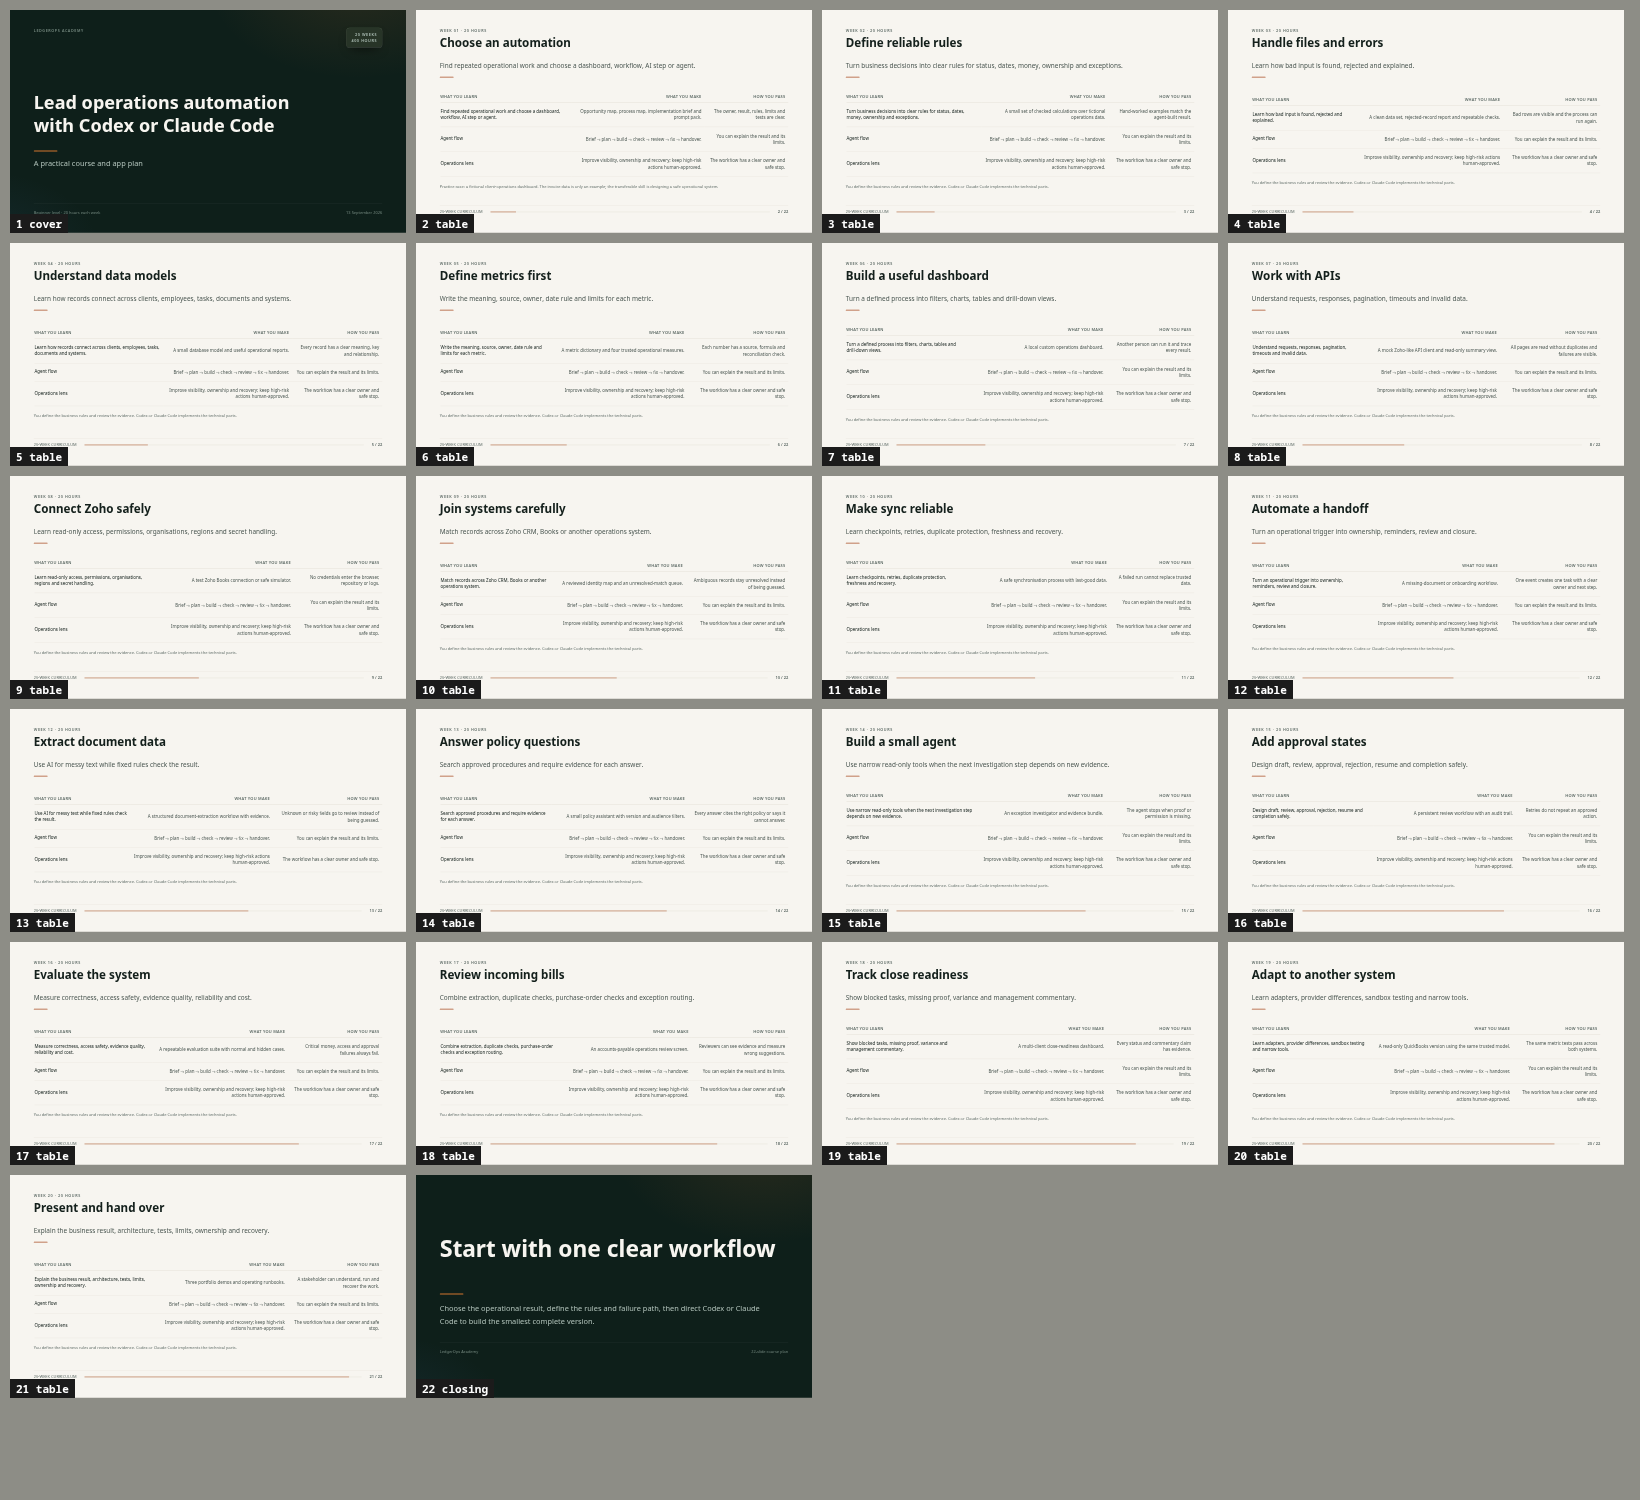
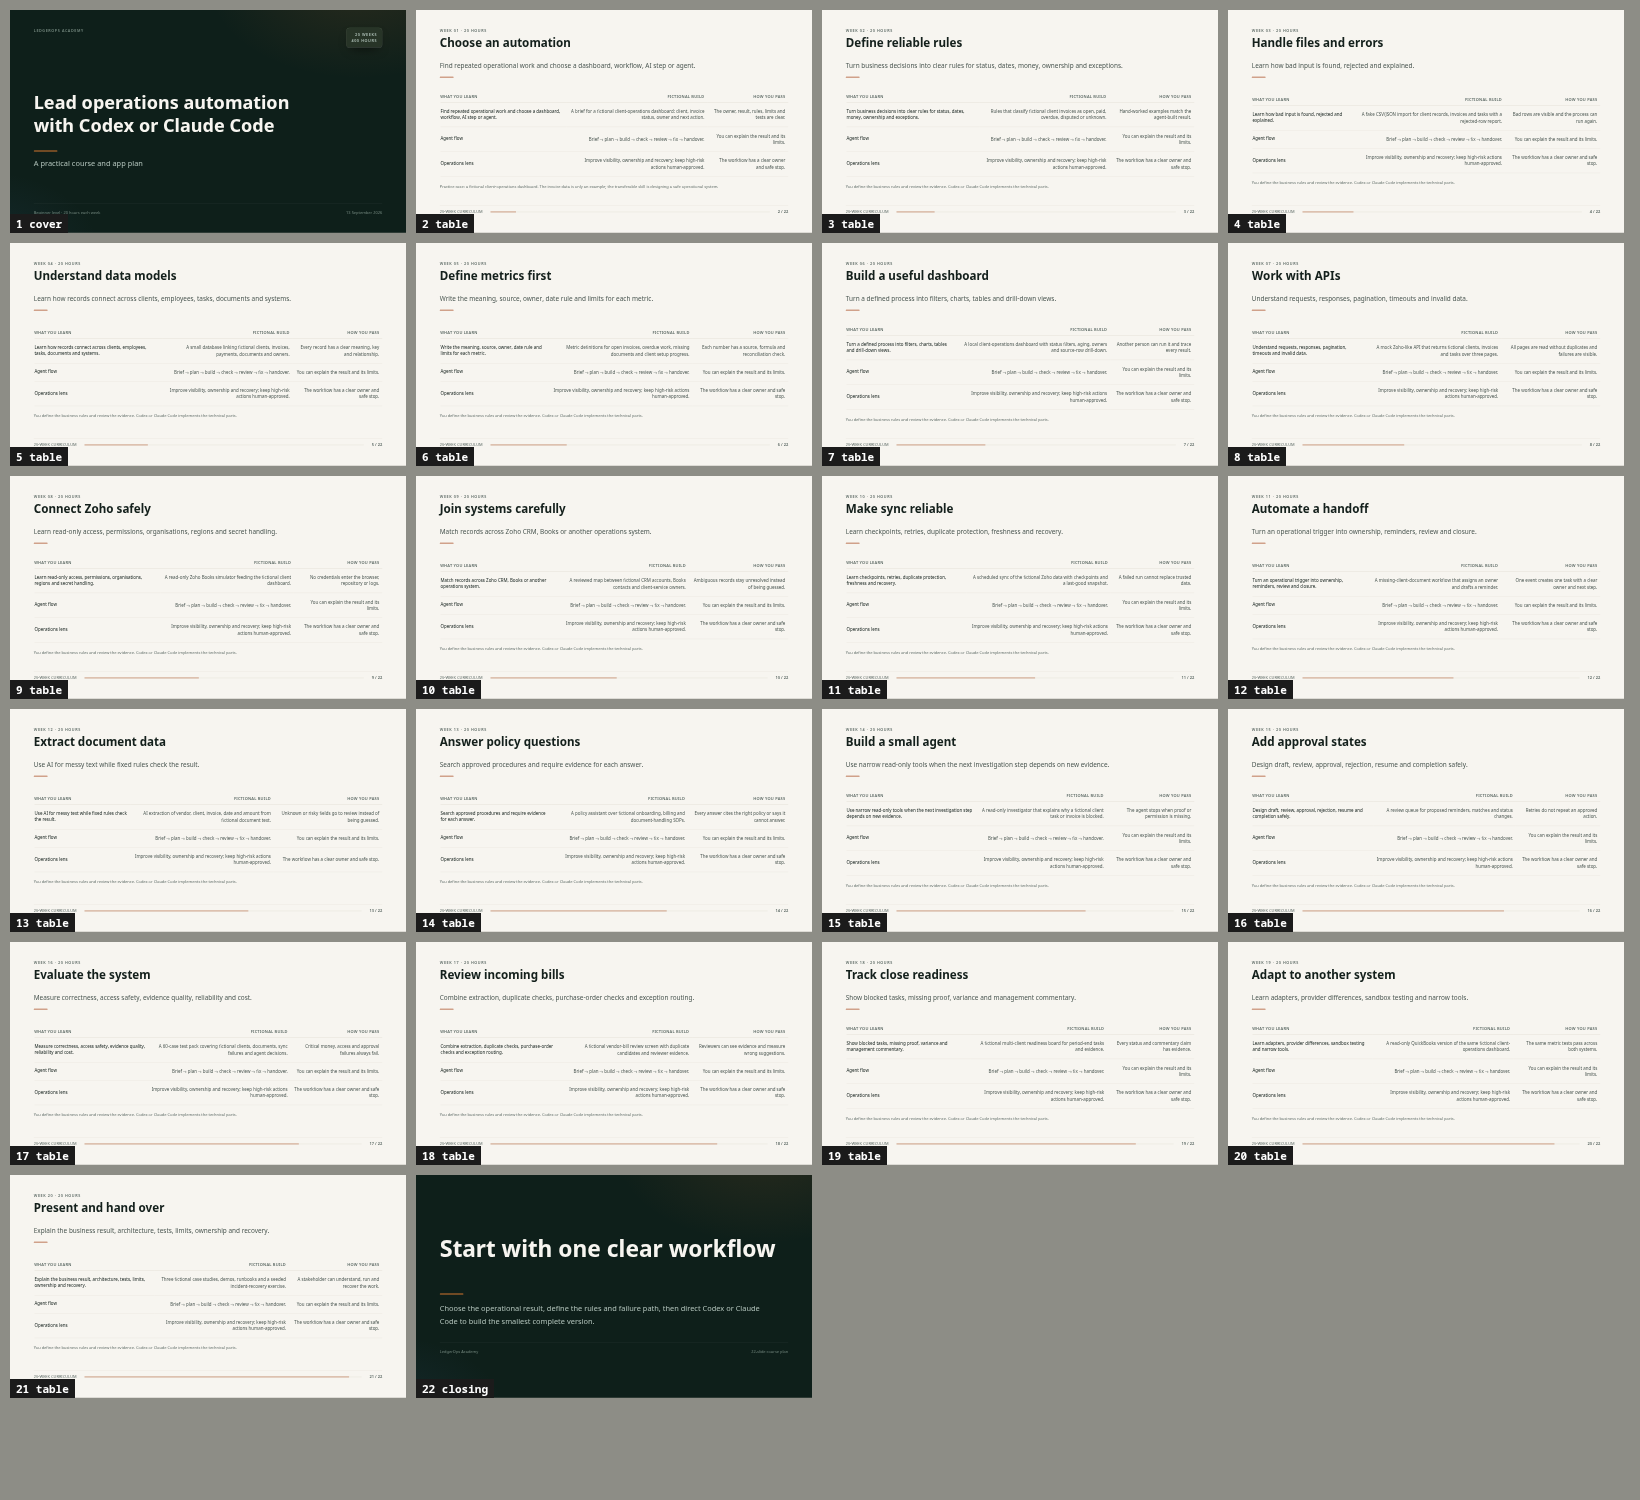
Add fictional build to every weekly slide

diff --git a/slides/LedgerOps-Curriculum-and-App-Plan-offline-deck/content.js b/slides/LedgerOps-Curriculum-and-App-Plan-offline-deck/content.js
@@ -917,13 +917,13 @@ const DECK = {
       "sub": "Find repeated operational work and choose a dashboard, workflow, AI step or agent.",
       "cols": [
         "What you learn",
-        "What you make",
+        "Fictional build",
         "How you pass"
       ],
       "rows": [
         [
           "Find repeated operational work and choose a dashboard, workflow, AI step or agent.",
-          "Opportunity map, process map, implementation brief and prompt pack.",
+          "A brief for a fictional client-operations dashboard: client, invoice status, owner and next action.",
           "The owner, result, rules, limits and tests are clear."
         ],
         [
@@ -947,13 +947,13 @@ const DECK = {
       "sub": "Turn business decisions into clear rules for status, dates, money, ownership and exceptions.",
       "cols": [
         "What you learn",
-        "What you make",
+        "Fictional build",
         "How you pass"
       ],
       "rows": [
         [
           "Turn business decisions into clear rules for status, dates, money, ownership and exceptions.",
-          "A small set of checked calculations over fictional operations data.",
+          "Rules that classify fictional client invoices as open, paid, overdue, disputed or unknown.",
           "Hand-worked examples match the agent-built result."
         ],
         [
@@ -977,13 +977,13 @@ const DECK = {
       "sub": "Learn how bad input is found, rejected and explained.",
       "cols": [
         "What you learn",
-        "What you make",
+        "Fictional build",
         "How you pass"
       ],
       "rows": [
         [
           "Learn how bad input is found, rejected and explained.",
-          "A clean data set, rejected-record report and repeatable checks.",
+          "A fake CSV/JSON import for client records, invoices and tasks with a rejected-row report.",
           "Bad rows are visible and the process can run again."
         ],
         [
@@ -1007,13 +1007,13 @@ const DECK = {
       "sub": "Learn how records connect across clients, employees, tasks, documents and systems.",
       "cols": [
         "What you learn",
-        "What you make",
+        "Fictional build",
         "How you pass"
       ],
       "rows": [
         [
           "Learn how records connect across clients, employees, tasks, documents and systems.",
-          "A small database model and useful operational reports.",
+          "A small database linking fictional clients, invoices, payments, documents and owners.",
           "Every record has a clear meaning, key and relationship."
         ],
         [
@@ -1037,13 +1037,13 @@ const DECK = {
       "sub": "Write the meaning, source, owner, date rule and limits for each metric.",
       "cols": [
         "What you learn",
-        "What you make",
+        "Fictional build",
         "How you pass"
       ],
       "rows": [
         [
           "Write the meaning, source, owner, date rule and limits for each metric.",
-          "A metric dictionary and four trusted operational measures.",
+          "Metric definitions for open invoices, overdue work, missing documents and client setup progress.",
           "Each number has a source, formula and reconciliation check."
         ],
         [
@@ -1067,13 +1067,13 @@ const DECK = {
       "sub": "Turn a defined process into filters, charts, tables and drill-down views.",
       "cols": [
         "What you learn",
-        "What you make",
+        "Fictional build",
         "How you pass"
       ],
       "rows": [
         [
           "Turn a defined process into filters, charts, tables and drill-down views.",
-          "A local custom operations dashboard.",
+          "A local client-operations dashboard with status filters, aging, owners and source-row drill-down.",
           "Another person can run it and trace every result."
         ],
         [
@@ -1097,13 +1097,13 @@ const DECK = {
       "sub": "Understand requests, responses, pagination, timeouts and invalid data.",
       "cols": [
         "What you learn",
-        "What you make",
+        "Fictional build",
         "How you pass"
       ],
       "rows": [
         [
           "Understand requests, responses, pagination, timeouts and invalid data.",
-          "A mock Zoho-like API client and read-only summary view.",
+          "A mock Zoho-like API that returns fictional clients, invoices and tasks over three pages.",
           "All pages are read without duplicates and failures are visible."
         ],
         [
@@ -1127,13 +1127,13 @@ const DECK = {
       "sub": "Learn read-only access, permissions, organisations, regions and secret handling.",
       "cols": [
         "What you learn",
-        "What you make",
+        "Fictional build",
         "How you pass"
       ],
       "rows": [
         [
           "Learn read-only access, permissions, organisations, regions and secret handling.",
-          "A test Zoho Books connection or safe simulator.",
+          "A read-only Zoho Books simulator feeding the fictional client dashboard.",
           "No credentials enter the browser, repository or logs."
         ],
         [
@@ -1157,13 +1157,13 @@ const DECK = {
       "sub": "Match records across Zoho CRM, Books or another operations system.",
       "cols": [
         "What you learn",
-        "What you make",
+        "Fictional build",
         "How you pass"
       ],
       "rows": [
         [
           "Match records across Zoho CRM, Books or another operations system.",
-          "A reviewed identity map and an unresolved-match queue.",
+          "A reviewed map between fictional CRM accounts, Books contacts and client-service owners.",
           "Ambiguous records stay unresolved instead of being guessed."
         ],
         [
@@ -1187,13 +1187,13 @@ const DECK = {
       "sub": "Learn checkpoints, retries, duplicate protection, freshness and recovery.",
       "cols": [
         "What you learn",
-        "What you make",
+        "Fictional build",
         "How you pass"
       ],
       "rows": [
         [
           "Learn checkpoints, retries, duplicate protection, freshness and recovery.",
-          "A safe synchronisation process with last-good data.",
+          "A scheduled sync of the fictional Zoho data with checkpoints and a last-good snapshot.",
           "A failed run cannot replace trusted data."
         ],
         [
@@ -1217,13 +1217,13 @@ const DECK = {
       "sub": "Turn an operational trigger into ownership, reminders, review and closure.",
       "cols": [
         "What you learn",
-        "What you make",
+        "Fictional build",
         "How you pass"
       ],
       "rows": [
         [
           "Turn an operational trigger into ownership, reminders, review and closure.",
-          "A missing-document or onboarding workflow.",
+          "A missing-client-document workflow that assigns an owner and drafts a reminder.",
           "One event creates one task with a clear owner and next step."
         ],
         [
@@ -1247,13 +1247,13 @@ const DECK = {
       "sub": "Use AI for messy text while fixed rules check the result.",
       "cols": [
         "What you learn",
-        "What you make",
+        "Fictional build",
         "How you pass"
       ],
       "rows": [
         [
           "Use AI for messy text while fixed rules check the result.",
-          "A structured document-extraction workflow with evidence.",
+          "AI extraction of vendor, client, invoice, date and amount from fictional document text.",
           "Unknown or risky fields go to review instead of being guessed."
         ],
         [
@@ -1277,13 +1277,13 @@ const DECK = {
       "sub": "Search approved procedures and require evidence for each answer.",
       "cols": [
         "What you learn",
-        "What you make",
+        "Fictional build",
         "How you pass"
       ],
       "rows": [
         [
           "Search approved procedures and require evidence for each answer.",
-          "A small policy assistant with version and audience filters.",
+          "A policy assistant over fictional onboarding, billing and document-handling SOPs.",
           "Every answer cites the right policy or says it cannot answer."
         ],
         [
@@ -1307,13 +1307,13 @@ const DECK = {
       "sub": "Use narrow read-only tools when the next investigation step depends on new evidence.",
       "cols": [
         "What you learn",
-        "What you make",
+        "Fictional build",
         "How you pass"
       ],
       "rows": [
         [
           "Use narrow read-only tools when the next investigation step depends on new evidence.",
-          "An exception investigator and evidence bundle.",
+          "A read-only investigator that explains why a fictional client task or invoice is blocked.",
           "The agent stops when proof or permission is missing."
         ],
         [
@@ -1337,13 +1337,13 @@ const DECK = {
       "sub": "Design draft, review, approval, rejection, resume and completion safely.",
       "cols": [
         "What you learn",
-        "What you make",
+        "Fictional build",
         "How you pass"
       ],
       "rows": [
         [
           "Design draft, review, approval, rejection, resume and completion safely.",
-          "A persistent review workflow with an audit trail.",
+          "A review queue for proposed reminders, matches and status changes.",
           "Retries do not repeat an approved action."
         ],
         [
@@ -1367,13 +1367,13 @@ const DECK = {
       "sub": "Measure correctness, access safety, evidence quality, reliability and cost.",
       "cols": [
         "What you learn",
-        "What you make",
+        "Fictional build",
         "How you pass"
       ],
       "rows": [
         [
           "Measure correctness, access safety, evidence quality, reliability and cost.",
-          "A repeatable evaluation suite with normal and hidden cases.",
+          "A 60-case test pack covering fictional clients, documents, sync failures and agent decisions.",
           "Critical money, access and approval failures always fail."
         ],
         [
@@ -1397,13 +1397,13 @@ const DECK = {
       "sub": "Combine extraction, duplicate checks, purchase-order checks and exception routing.",
       "cols": [
         "What you learn",
-        "What you make",
+        "Fictional build",
         "How you pass"
       ],
       "rows": [
         [
           "Combine extraction, duplicate checks, purchase-order checks and exception routing.",
-          "An accounts-payable operations review screen.",
+          "A fictional vendor-bill review screen with duplicate candidates and reviewer evidence.",
           "Reviewers can see evidence and measure wrong suggestions."
         ],
         [
@@ -1427,13 +1427,13 @@ const DECK = {
       "sub": "Show blocked tasks, missing proof, variance and management commentary.",
       "cols": [
         "What you learn",
-        "What you make",
+        "Fictional build",
         "How you pass"
       ],
       "rows": [
         [
           "Show blocked tasks, missing proof, variance and management commentary.",
-          "A multi-client close-readiness dashboard.",
+          "A fictional multi-client readiness board for period-end tasks and evidence.",
           "Every status and commentary claim has evidence."
         ],
         [
@@ -1457,13 +1457,13 @@ const DECK = {
       "sub": "Learn adapters, provider differences, sandbox testing and narrow tools.",
       "cols": [
         "What you learn",
-        "What you make",
+        "Fictional build",
         "How you pass"
       ],
       "rows": [
         [
           "Learn adapters, provider differences, sandbox testing and narrow tools.",
-          "A read-only QuickBooks version using the same trusted model.",
+          "A read-only QuickBooks version of the same fictional client-operations dashboard.",
           "The same metric tests pass across both systems."
         ],
         [
@@ -1487,13 +1487,13 @@ const DECK = {
       "sub": "Explain the business result, architecture, tests, limits, ownership and recovery.",
       "cols": [
         "What you learn",
-        "What you make",
+        "Fictional build",
         "How you pass"
       ],
       "rows": [
         [
           "Explain the business result, architecture, tests, limits, ownership and recovery.",
-          "Three portfolio demos and operating runbooks.",
+          "Three fictional case studies, demos, runbooks and a seeded incident-recovery exercise.",
           "A stakeholder can understand, run and recover the work."
         ],
         [
